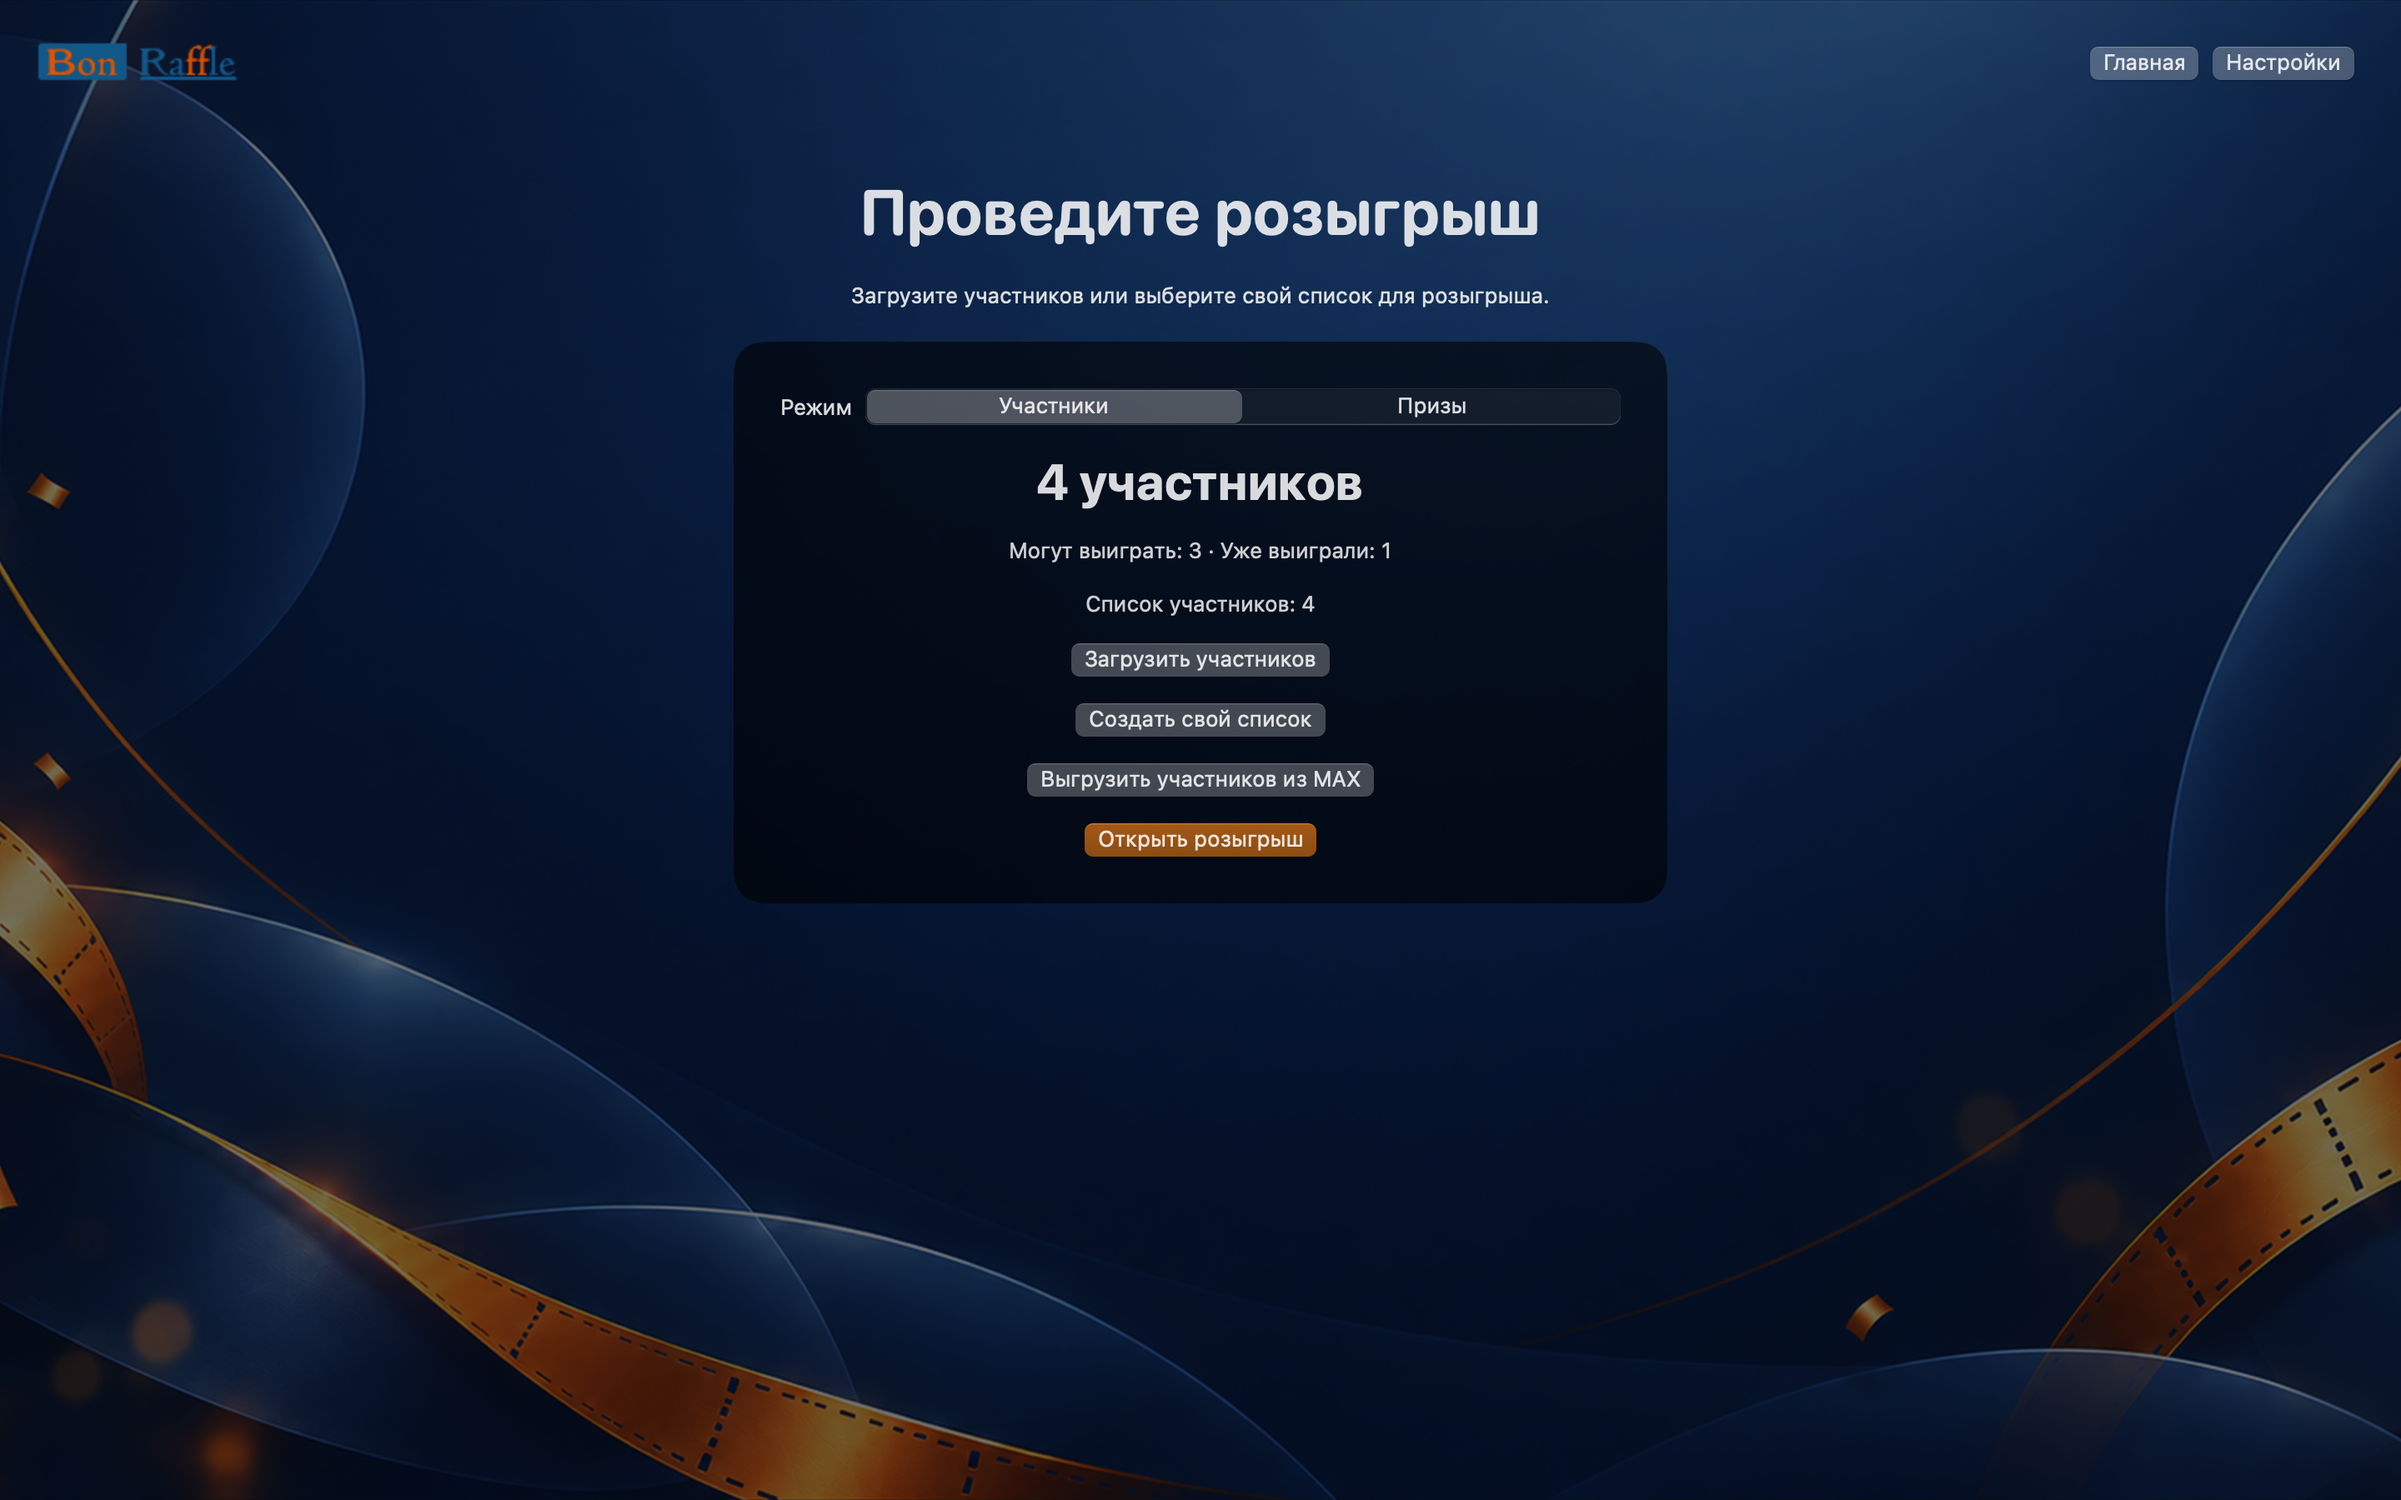
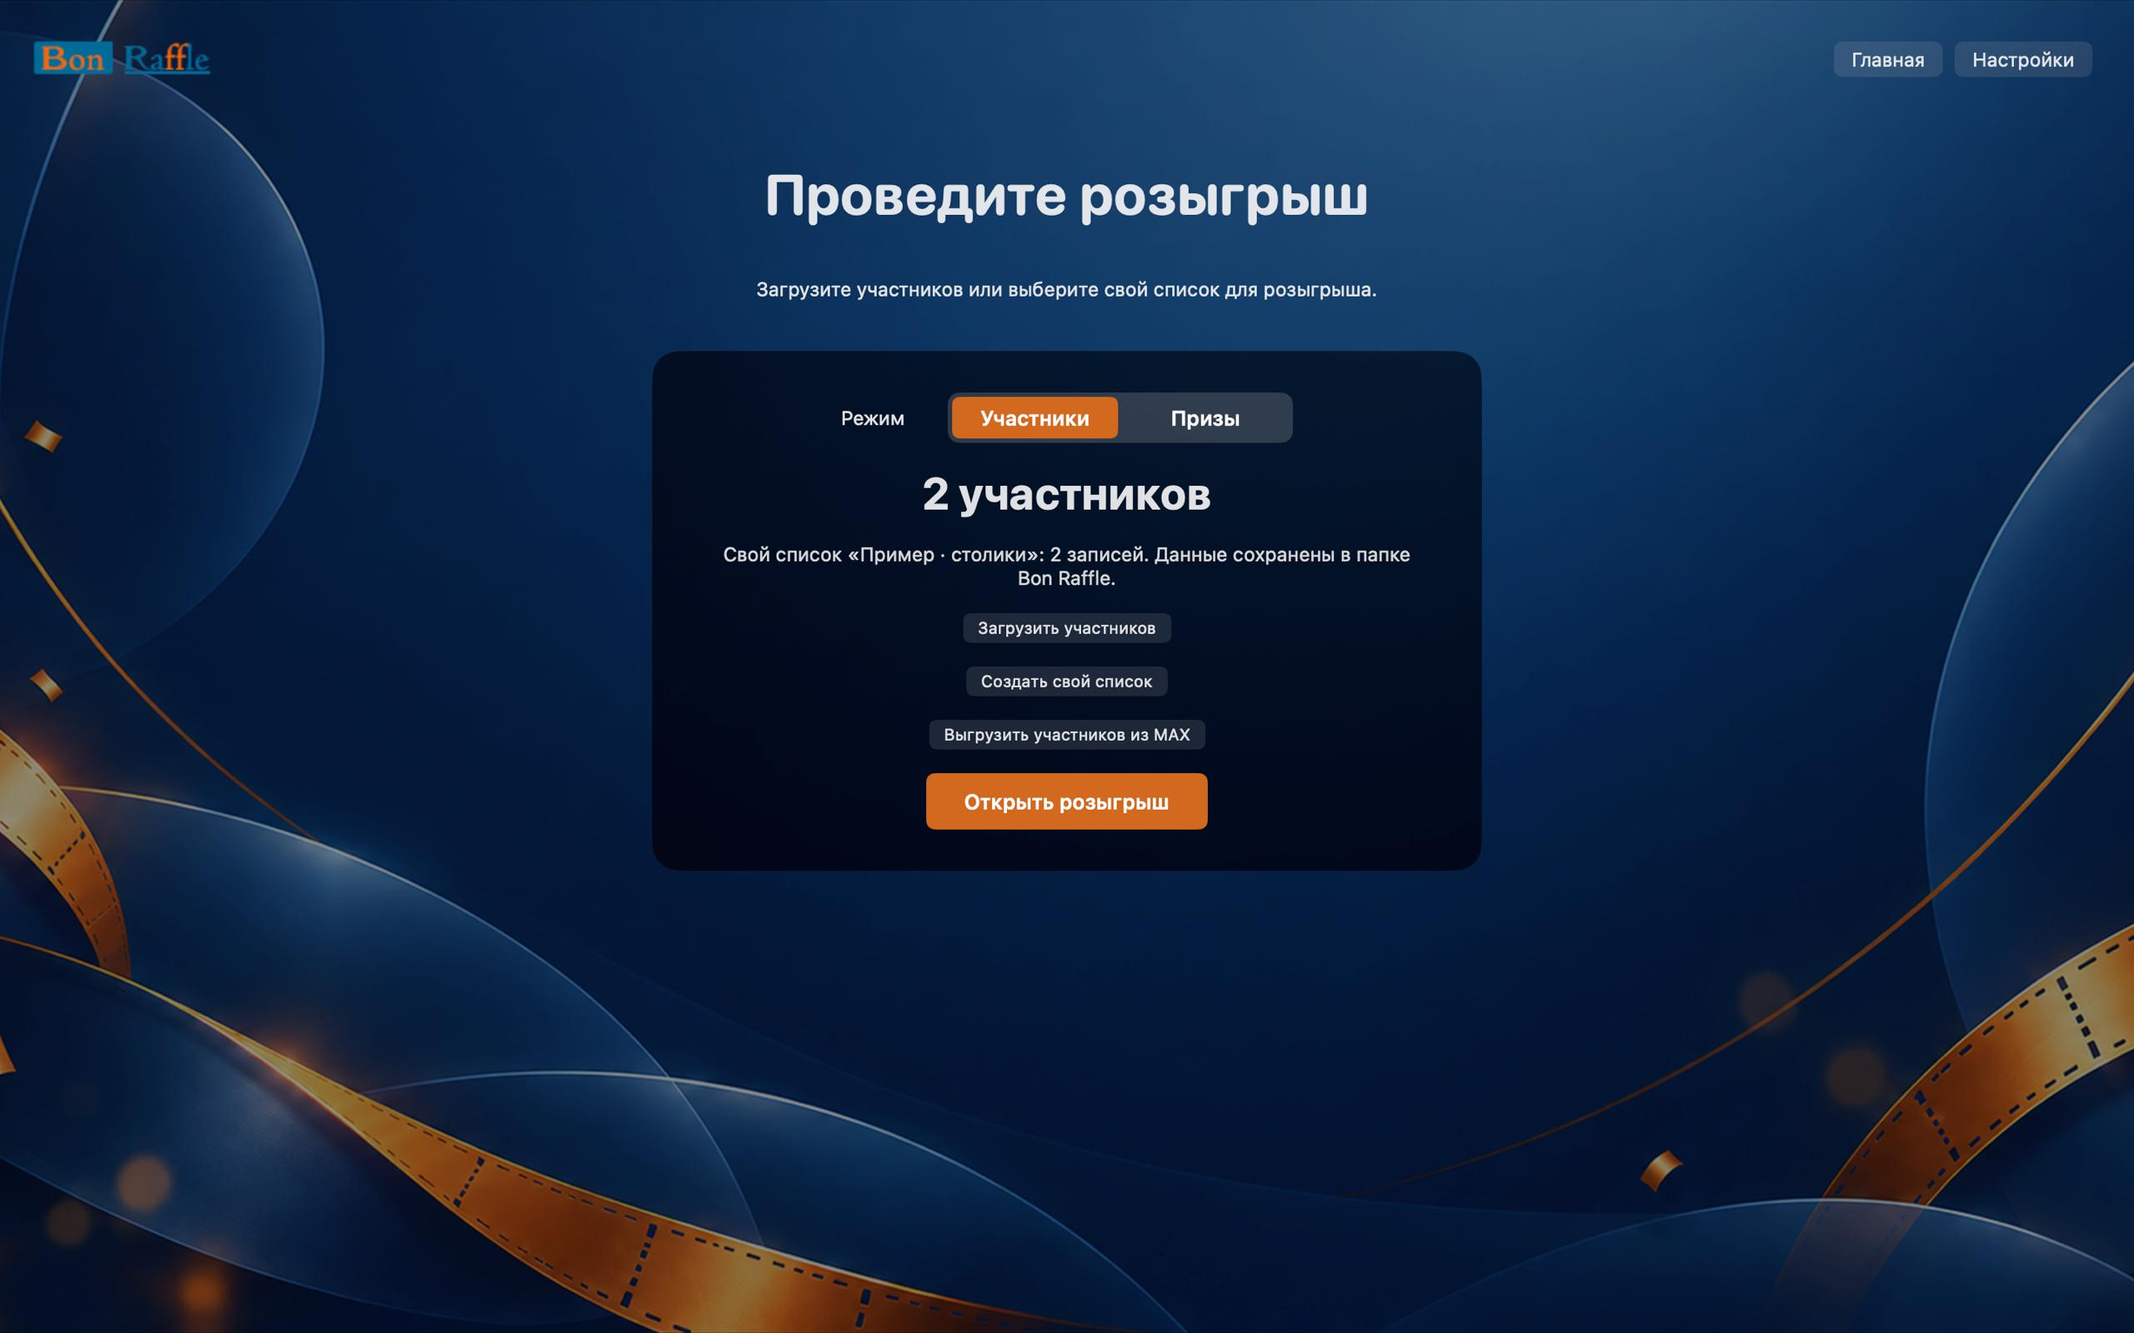
Refresh Windows and macOS screenshots

diff --git a/README.md b/README.md
@@ -13,58 +13,70 @@
 <details>
 <summary>Скриншоты Windows</summary>
 
-**Участники**
+**Загрузка участников из MAX**
 
-![Главный экран со списком участников на Windows](docs/screenshots/home-participants-windows.png)
+![Загрузка участников из MAX на Windows](docs/screenshots/max-loading-windows.png)
 
-**Результат розыгрыша приза**
+**Списки участников**
 
-![Карточка выпавшего приза](docs/screenshots/prize-winner-windows.png)
+![Редактор списка участников на Windows](docs/screenshots/lists-participants-windows.png)
 
-**Основные настройки**
+**Режим призов**
 
-![Основные настройки Bon Raffle на Windows](docs/screenshots/settings-general-windows.png)
+![Главный экран розыгрыша призов на Windows](docs/screenshots/home-prizes-windows.png)
+
+**Списки призов**
+
+![Редактор списка призов на Windows](docs/screenshots/lists-prizes-windows.png)
+
+**Барабан участников**
+
+![Барабан с участниками на Windows](docs/screenshots/drum-participants-windows.png)
+
+**Настройки розыгрыша**
+
+![Настройки розыгрыша на Windows](docs/screenshots/settings-raffle-windows.png)
 
 **Настройки оформления**
 
-![Настройки оформления Bon Raffle на Windows](docs/screenshots/settings-appearance-windows.png)
-
-**Уведомление об обновлении**
-
-![Плашка новой версии Bon Raffle на Windows](docs/screenshots/update-notice-windows.png)
-
-**Настройки обновлений**
-
-![Настройки обновлений Bon Raffle на Windows](docs/screenshots/settings-updates-windows.png)
+![Настройки оформления на Windows](docs/screenshots/settings-appearance-windows.png)
 
 </details>
 
 <details>
 <summary>Скриншоты macOS</summary>
 
-**Участники**
+**Режим участников**
 
-![Главный экран со списком участников на macOS](docs/screenshots/home-participants-macos.png)
+![Главный экран участников на macOS](docs/screenshots/home-participants-macos.png)
 
-**Результат розыгрыша приза**
+**Загрузка участников из MAX**
 
-![Карточка выпавшего приза на macOS](docs/screenshots/prize-winner-macos.png)
+![Загрузка участников из MAX на macOS](docs/screenshots/max-loading-macos.png)
 
-**Основные настройки**
+**Списки участников**
 
-![Основные настройки Bon Raffle на macOS](docs/screenshots/settings-general-macos.png)
+![Редактор списка участников на macOS](docs/screenshots/lists-participants-macos.png)
+
+**Режим призов**
+
+![Главный экран розыгрыша призов на macOS](docs/screenshots/home-prizes-macos.png)
+
+**Списки призов**
+
+![Редактор списка призов на macOS](docs/screenshots/lists-prizes-macos.png)
+
+**Барабан участников**
+
+![Барабан с участниками на macOS](docs/screenshots/drum-participants-macos.png)
+
+**Настройки розыгрыша**
+
+![Настройки розыгрыша на macOS](docs/screenshots/settings-raffle-macos.png)
 
 **Настройки оформления**
 
-![Настройки оформления Bon Raffle на macOS](docs/screenshots/settings-appearance-macos.png)
-
-**Обновления**
-
-Проверка обновлений в тестовой копии macOS.
-
-![Плашка доступной версии Bon Raffle на macOS](docs/screenshots/update-notice-macos.png)
-
-![Настройки и описание обновления Bon Raffle на macOS](docs/screenshots/settings-updates-macos.png)
+![Настройки оформления на macOS](docs/screenshots/settings-appearance-macos.png)
 
 </details>
 
